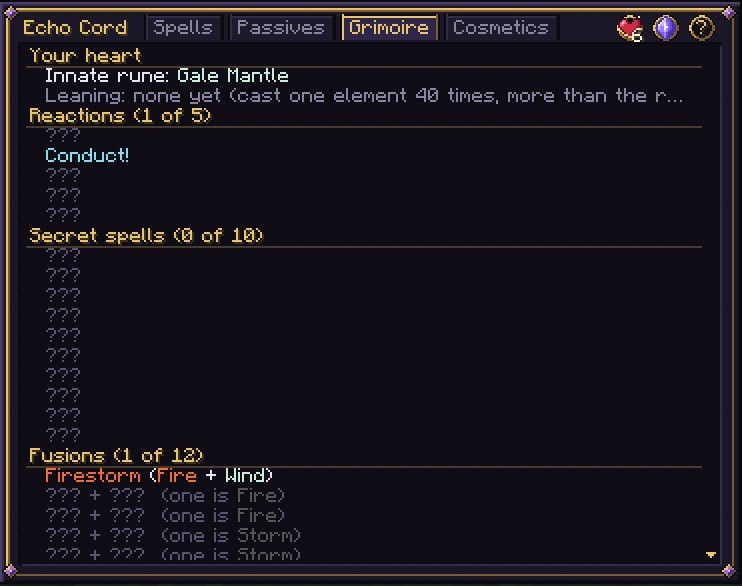
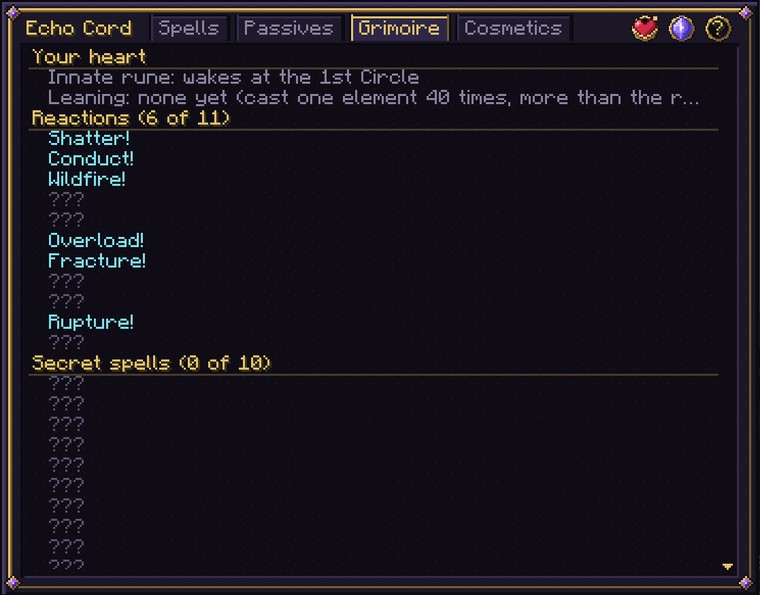
A fresh Grimoire screenshot: six of the eleven reactions, and no riddles

Changed region(s): [[0.0, 0.0, 1.0, 1.0], [0.7749, 0.1536, 0.8989, 0.1843]]

diff --git a/spellcraft/cord-screen.md b/spellcraft/cord-screen.md
@@ -288,7 +288,7 @@ The rules for what a passive may hold are on [Passive Spells]({{ '/spellcraft/pa
 
 ## The Grimoire page
 
-<img src="{{ '/assets/images/a-grimoire-page.jpg' | relative_url }}" alt="The Grimoire page: your heart with innate rune and leaning, the reactions with Conduct found, the secret spells as question marks, and the start of the fusions with Firestorm found" class="shot">
+<img src="{{ '/assets/images/a-grimoire-page.jpg' | relative_url }}" alt="The Grimoire page: your heart with innate rune and leaning, six of the eleven reactions found, and the secret spells as question marks" class="shot">
 <span class="caption">The Grimoire page. (This picture is from before the full set of fused runes; the Fusions list now counts all 55.)</span>
 
 The **Grimoire** tab is your book of discoveries. It lists, in order:
